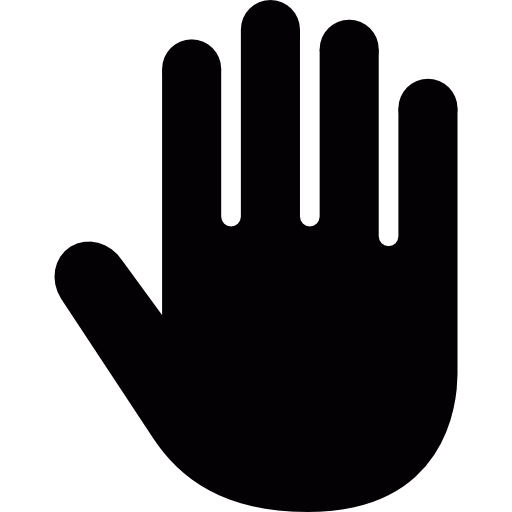
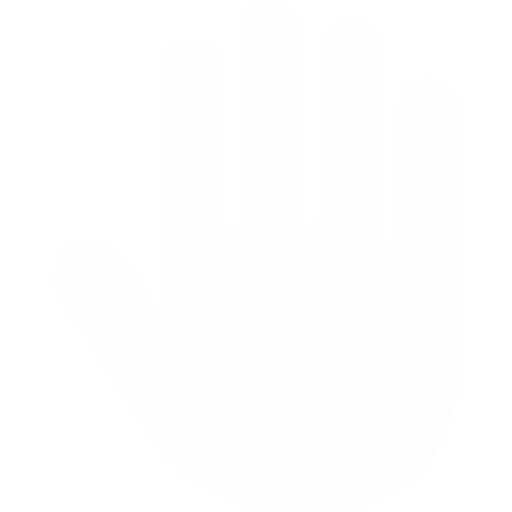
Honor dark and light color schemes in popup General UI cleanup (sans-serif font, spacing, long file names, etc)

diff --git a/popup/choose_downloads.css b/popup/choose_downloads.css
@@ -1,5 +1,15 @@
+:root {
+	color-scheme: light dark;
+}
+
+body {
+	background-color: Canvas;
+	color: CanvasText;
+}
+
 #popup-content {
-	min-width: 11rem;
+	font-family: sans-serif;
+	min-width: 12rem;
 }
 
 .downloads-header {
@@ -9,6 +19,8 @@
 
 .active-downloads {
 	display: table;
+	border-collapse: separate;
+	border-spacing: 0.2rem;
 }
 
 .download-row {
@@ -17,7 +29,6 @@
 
 .download-status {
 	display: table-cell;
-	white-space: nowrap;
 	vertical-align: middle;
 }
 
@@ -25,22 +36,24 @@
 	margin-left: 0.3rem;
 	margin-right: 0.3rem;
 	height: 0.8rem;
+	mix-blend-mode: difference;
 }
 
 .download-label {
 	display: table-cell;
-	word-break: break-all;
-	vertical-align: middle;
 }
 
 .download-filename {
-	word-break: break-all;
+	font-size: small;
+	white-space: nowrap;
+	overflow: hidden;
+	text-overflow: ellipsis;
+	max-width: 28rem;
 }
 
 .download-rate {
-	word-break: break-all;
 	font-size: smaller;
-	filter: opacity(70%);
+	filter: opacity(60%);
 }
 
 .hidden {

diff --git a/popup/choose_downloads.html b/popup/choose_downloads.html
@@ -11,7 +11,7 @@
   <div id="popup-content">
     <div>
       <img id="options" class="options" src="../icons/settings-32.png"/>
-      <h3 class="downloads-header">Active Downloads</h3>
+      <h4 class="downloads-header">Active Downloads</h4>
     </div>
     <div class="active-downloads">
     </div>